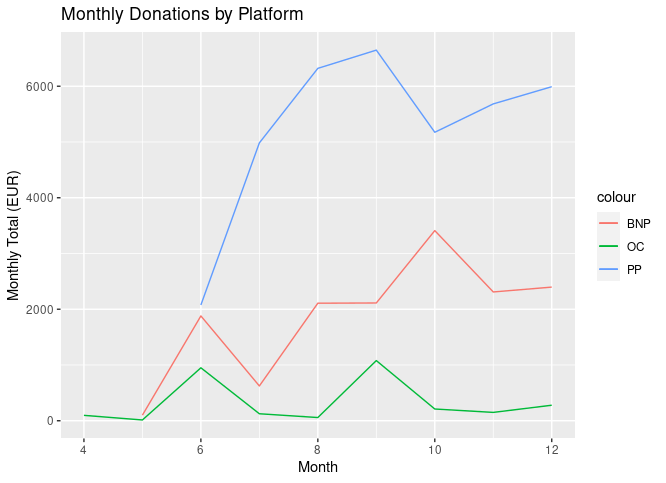
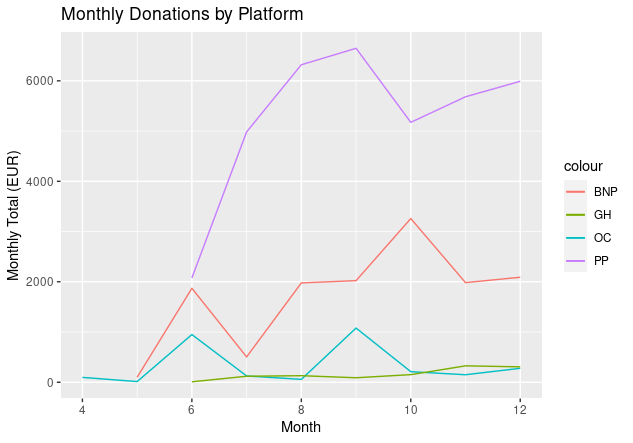
[AnnualReport]update graphics & rename file

diff --git a/drafts/FPAAnnualReport2022.md b/drafts/FPAAnnualReport2022.md
@@ -87,18 +87,31 @@ In 2022, the FPA received donations in excess of **USD 50 000**, an amount that 
 
 In 2022, bookkeeping for the FPA was done in [simple table form](https://fpa.freecad.org/reports/2022). Starting in 2023, bookkeeping will be done in a more complete, double-entry system based on the open-source [GnuCash](https://gnucash.org/) application. Monthly reports will still be issued by the administration team.
 
-* graphic: month by month, by platform
-![month by month, by platform](./DonationsByPlatform.png)
+The FPA is funded by donations from individuals and corporations.  We use four main platforms to collect donations:
+* direct deposits to our bank account
+* transfers to our PayPal account
+* Github donations
+* donations via Open Collective.
 
-* graphic: individuals vs companies
+The FPA also maintains a BountySource account, but there is little activity on this account.
 
-* graphic: one-time versus recurring
+The following charts illustrate that the vast majority of FPA funding comes from small donations by individuals.  Less than 5% of our supporters made more than 1 donation in 2022.
 
-* graphic: donations by amount
+
+
+![Donations by Funding Platform](./DonationsByPlatform.png)
+
+![Corporate vs Individual Donations](./PrivateVsCorporate.png)
+
+![Donation Size](./DonationSizeDistribution.png)
+
+![Multiple Donation Distribution](./MultipleDonations.png)
+
 
 The FPA engaged in a few recurring engagements in 2022, namely subscriptions to services and platforms.
 
 * table: recurring payments
+* ??WF: the only recurring payment I know of is $10/month to codeberg.  Everything else is paid by the year, no?
 
 ### Debts
 
@@ -119,5 +132,15 @@ The FPA owns the [freecad.org](https://freecad.org) domain and and a [trademark]
 
 ### 2023 Budget Estimate
 
+A full description of the FPA's plan for 2023 is available here: << insert link >>.  Some highlights from that document are provided here:
+
 * Income
+    * We expect our 2023 income to be slightly higher than 2022, since we will be receiving donations for a full 12 months.  If corporate sponsorship increases, our income could go up significantly.
 * Expenses
+    * We expect to spend much more of our income in 2023 and to spend much of our existing funds:
+        * FPADF - EUR 50,000
+        * Event support - EUR 10,000
+        * Reserve fund - EUR 20,000
+        * Infrastructure - EUR 5,000
+    
+
